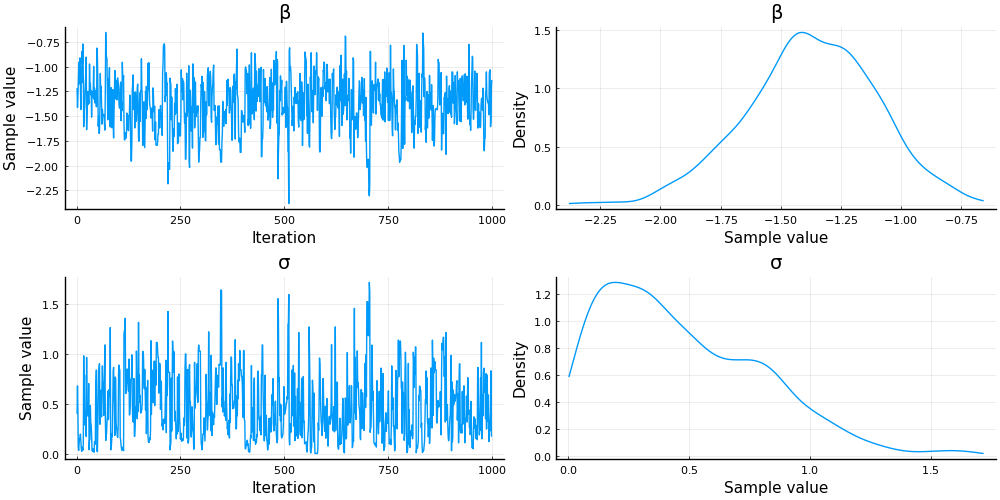
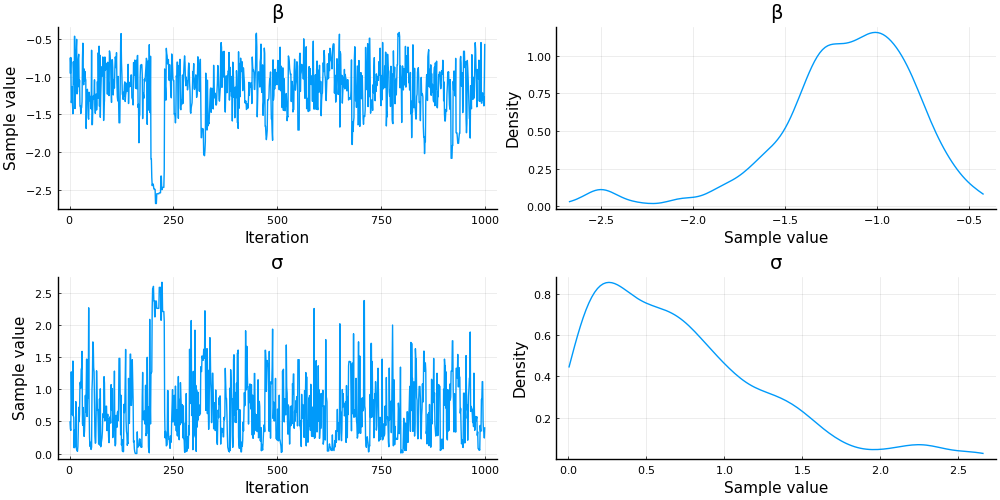
Deployed 1930714 with MkDocs version: 1.2.3

diff --git a/quasi/index.html b/quasi/index.html
@@ -268,14 +268,14 @@ data=rcivlogit(missing, missing ,missing, M, gausshermite(3), pm, N, J, Float64)
 # not sure why x, s, z are Array{Any}, but it will cause problems later, so fix it
 data = (x=Float64.(data.x), s=Int64.(data.s), z=Float64.(data.z), ξ=Float64.(data.ξ))
 </code></pre>
-<pre><code>(x = [0.3080674020252345 1.2924928561284428 … -0.7869716813520236 1.9446989
-2946658; 0.06650115378043547 -2.411374760035832 … 2.1966960670966156 0.0402
-4549787601028], s = [46 0 … 89 8; 18 98 … 1 57; 36 2 … 10 35], z = [0.39568
-33094578045 0.1361681748385206 … -0.7850796961531921 0.9336527852117569; 0.
-7778727538844737 -1.028226009209259 … 0.9892776703471098 1.0613000244887347
-], ξ = [0.7618807017867174 -0.2833493017359674 … 1.822650869007666 0.190737
-88248784262; -0.5718480848301717 2.3872147427000687 … -0.3738327914137143 0
-.5019760296558329])
+<pre><code>(x = [-0.8291668656715948 0.8114037841724092 … -2.493005300292991 -1.735388
+82102078; -1.9459132449679515 -0.5991443951465847 … -1.5243336512421664 1.4
+27601236461319], s = [25 47 … 54 62; 52 32 … 24 7; 23 21 … 22 31], z = [-0.
+16462757602447928 -1.02062940510034 … 0.20135486439450068 -1.37476878086003
+5; -0.21948746864078345 0.7966223359730757 … -0.05976092739945117 0.4069354
+101999431], ξ = [-0.949184612573837 2.270710162643411 … -1.2875415745627992
+ -0.7480245491443309; -0.773157795731879 0.4941916451642972 … -1.3757647826
+041028 0.6742938892206334])
 </code></pre>
 <p>Some remarks on the code</p>
 <ul>
@@ -329,29 +329,29 @@ display(describe(chain[chkeys])[1])
       Symbol   Float64   Float64    Float64   Float64    Float64   Float64 
     ⋯
 
-           β   -1.2672    0.2351     0.0074    0.0134   299.1729    1.0027 
+           β   -1.2436    0.4066     0.0129    0.0291   187.0492    0.9991 
     ⋯
-           σ    0.2406    0.1716     0.0054    0.0091   441.3357    0.9990 
+           σ    0.6761    0.3108     0.0098    0.0206   247.3818    0.9991 
     ⋯
-           ρ    0.5917    0.1381     0.0044    0.0059   664.6632    0.9990 
+           ρ    0.4569    0.3015     0.0095    0.0179   244.5416    0.9992 
     ⋯
-     Σx[1,1]    1.0314    0.5746     0.0182    0.0215   597.1121    0.9990 
+     Σx[1,1]    1.4559    0.8060     0.0255    0.0398   408.6881    1.0019 
     ⋯
-     Σx[2,1]   -0.3465    0.4802     0.0152    0.0176   726.5552    1.0042 
+     Σx[2,1]    0.5549    0.5705     0.0180    0.0246   507.8836    0.9991 
     ⋯
-     Σx[1,2]   -0.3465    0.4802     0.0152    0.0176   726.5552    1.0042 
+     Σx[1,2]    0.5549    0.5705     0.0180    0.0246   507.8836    0.9991 
     ⋯
-     Σx[2,2]    2.1226    1.0410     0.0329    0.0520   242.8227    1.0238 
+     Σx[2,2]    2.3462    1.2436     0.0393    0.0593   363.2574    0.9990 
     ⋯
-      Ω[1,1]    3.5134    2.2180     0.0701    0.1122   410.5804    1.0026 
+      Ω[1,1]    2.6946    1.7484     0.0553    0.0960   295.5635    0.9990 
     ⋯
-      Ω[2,1]    1.7739    1.4999     0.0474    0.0590   617.1522    0.9994 
+      Ω[2,1]    1.2312    1.0636     0.0336    0.0477   443.6418    0.9990 
     ⋯
-      Ω[1,2]    1.7739    1.4999     0.0474    0.0590   617.1522    0.9994 
+      Ω[1,2]    1.2312    1.0636     0.0336    0.0477   443.6418    0.9990 
     ⋯
-      Ω[2,2]    4.7052    2.2265     0.0704    0.0999   462.3636    0.9997 
+      Ω[2,2]    3.1023    2.2316     0.0706    0.1431   175.3450    0.9991 
     ⋯
-           π    1.0303    0.2074     0.0066    0.0091   547.4500    0.9993 
+           π    0.8452    0.3464     0.0110    0.0157   380.0702    0.9991 
     ⋯
                                                                 1 column om
 itted
@@ -463,11 +463,16 @@ names = vcat([length(p[s])==1 ? String(s) : String.(s).*string.(1:length(p[s])) 
 vals = hcat([vcat([length(v)==1 ? v : vec(v) for v in values(p)]...) for p in post]...)'
 chain = MCMCChains.Chains(reshape(vals, size(vals)..., 1), names)
 display(plot(chain[[&quot;β&quot;,&quot;σ&quot;,&quot;ρ&quot;,&quot;π&quot;]]))
-display(describe(chain[[&quot;β&quot;,&quot;σ&quot;,&quot;ρ&quot;,&quot;π&quot;]]))
+display(describe(chain[[&quot;β&quot;,&quot;σ&quot;,&quot;ρ&quot;,&quot;π&quot;]])[1])
 </code></pre>
-<pre><code>2-element Vector{ChainDataFrame}:
- Summary Statistics (4 x 7)
- Quantiles (4 x 6)
+<pre><code>Summary Statistics
+  parameters      mean       std   naive_se      mcse        ess      rhat
+      Symbol   Float64   Float64    Float64   Float64    Float64   Float64
+
+           β   -1.1455    0.4021     0.0127    0.0357    76.3266    1.0292
+           σ    0.5666    0.2756     0.0087    0.0186   195.7986    0.9990
+           π    0.8488    0.3193     0.0101    0.0151   518.1321    0.9990
+           ρ    0.4704    0.2925     0.0093    0.0231   156.4125    1.0056
 </code></pre>
 <p><img alt="" src="../figures/quasi_7_1.png" /></p>
 <h1 id="quasi-bayesian">Quasi-Bayesian<a class="headerlink" href="#quasi-bayesian" title="Permanent link">&para;</a></h1>
@@ -694,12 +699,15 @@ p = post[1]
 names = vcat([length(p[s])==1 ? String(s) : String.(s).*string.(1:length(p[s])) for s in keys(p)]...)
 vals = hcat([vcat([length(v)==1 ? v : vec(v) for v in values(p)]...) for p in post]...)'
 chain = MCMCChains.Chains(reshape(vals, size(vals)..., 1), names)
-display(describe(chain[[&quot;β&quot;,&quot;σ&quot;]]))
+display(describe(chain[[&quot;β&quot;,&quot;σ&quot;]])[1])
 display(plot(chain[[&quot;β&quot;,&quot;σ&quot;]]))
 </code></pre>
-<pre><code>2-element Vector{ChainDataFrame}:
- Summary Statistics (2 x 7)
- Quantiles (2 x 6)
+<pre><code>Summary Statistics
+  parameters      mean       std   naive_se      mcse        ess      rhat
+      Symbol   Float64   Float64    Float64   Float64    Float64   Float64
+
+           β   -1.2810    0.3689     0.0117    0.0257   154.9630    1.0000
+           σ    0.9447    0.6902     0.0218    0.0512   136.3898    1.0009
 </code></pre>
 <p><img alt="" src="../figures/quasi_11_1.png" /></p>
 <p>The quasi-posterior means look okay. The standard deviation and
@@ -731,12 +739,15 @@ p = post[1]
 names = vcat([length(p[s])==1 ? String(s) : String.(s).*string.(1:length(p[s])) for s in keys(p)]...)
 vals = hcat([vcat([length(v)==1 ? v : vec(v) for v in values(p)]...) for p in post]...)'
 chain = MCMCChains.Chains(reshape(vals, size(vals)..., 1), names)
-display(describe(chain[[&quot;β&quot;,&quot;σ&quot;]]))
+display(describe(chain[[&quot;β&quot;,&quot;σ&quot;]])[1])
 display(plot(chain[[&quot;β&quot;,&quot;σ&quot;]]))
 </code></pre>
-<pre><code>2-element Vector{ChainDataFrame}:
- Summary Statistics (2 x 7)
- Quantiles (2 x 6)
+<pre><code>Summary Statistics
+  parameters      mean       std   naive_se      mcse       ess      rhat
+      Symbol   Float64   Float64    Float64   Float64   Float64   Float64
+
+           β   -1.1734    0.3905     0.0123    0.0370   71.9467    1.0124
+           σ    0.7136    0.5478     0.0173    0.0480   94.2200    1.0084
 </code></pre>
 <p><img alt="" src="../figures/quasi_14_1.png" /></p>
 <p>These posterior standard deviations and quantiles can be used for

diff --git a/index.html b/index.html
@@ -191,5 +191,5 @@
 
 <!--
 MkDocs version : 1.2.3
-Build Date UTC : 2022-04-01 22:35:04.972122+00:00
+Build Date UTC : 2022-04-01 22:49:47.845011+00:00
 -->
